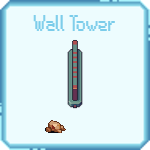
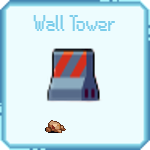
Changed turret selection so when turrets are selected, it's green instead of red

Changed region(s): [[0.2933, 0.2667, 0.6667, 0.7467]]

diff --git a/source/core/src/main/com/csse3200/game/screens/TowerType.java b/source/core/src/main/com/csse3200/game/screens/TowerType.java
@@ -2,19 +2,19 @@ package com.csse3200.game.screens;
 
 public enum TowerType {
     WEAPON("Weapon Tower", "The Weapon Tower is a simple and basic turret that fires rapid shots at enemies dealing damage over time.",
-            0, "0", "images/turret-select/Weapon-Tower-Default.png", "images/turret-select/Weapon-Tower-Clicked.png"),
+            0, "0", "images/turret-select/Weapon-Tower-Default.png", "images/turret-select/weapon-tower-selected.png"),
     TNT("TNT Tower", "The TNT Tower launches explosive projectiles, dealing area damage to groups of enemies.",
-            1, "0", "images/turret-select/tnt-tower-default.png", "images/turret-select/tnt-tower-clicked.png"),
+            1, "0", "images/turret-select/tnt-tower-default.png", "images/turret-select/tnt-tower-selected.png"),
     DROID("Droid Tower", "Droid Towers deploy robotic helpers that assist in combat and provide support to nearby turrets.",
-            2, "0", "images/turret-select/droid-tower-default.png", "images/turret-select/droid-tower-clicked.png"),
+            2, "0", "images/turret-select/droid-tower-default.png", "images/turret-select/droid-tower-selected.png"),
     WALL("Wall Tower", "The Wall Tower creates barriers to block enemy paths, slowing down their progress.",
-            3, "100", "images/turret-select/wall-tower-default.png", "images/turret-select/wall-tower-clicked.png"),
+            3, "100", "images/turret-select/wall-tower-default.png", "images/turret-select/wall-tower-selected.png"),
     FIRE("Fire Tower", "The Fire Tower emits flames, causing damage over time to enemies caught in its fiery radius.",
-            4, "0", "images/turret-select/fire-tower-default.png", "images/turret-select/fire-tower-clicked.png"),
+            4, "0", "images/turret-select/fire-tower-default.png", "images/turret-select/fire-tower-selected.png"),
     STUN("Stun Tower", "The Stun Tower releases electric shocks that temporarily immobilize and damage enemies.",
-            5, "1000", "images/turret-select/stun-tower-default.png", "images/turret-select/stun-tower-clicked.png"),
+            5, "1000", "images/turret-select/stun-tower-default.png", "images/turret-select/stun-tower-selected.png"),
     INCOME("Income Tower", "The Income Tower generates additional in-game currency over time.",
-            5, "0", "images/turret-select/mine-tower-default.png", "images/turret-select/mine-tower-clicked.png");
+            5, "0", "images/turret-select/mine-tower-default.png", "images/turret-select/mine-tower-selected.png");
 
     private final String towerName;
     private final String description;
